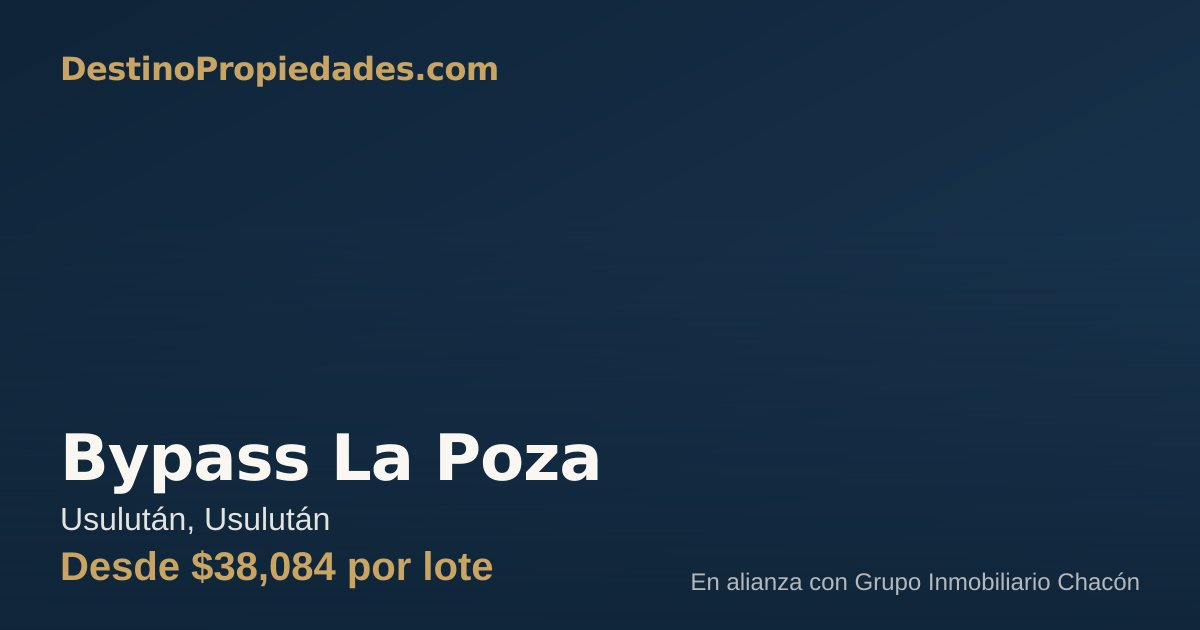
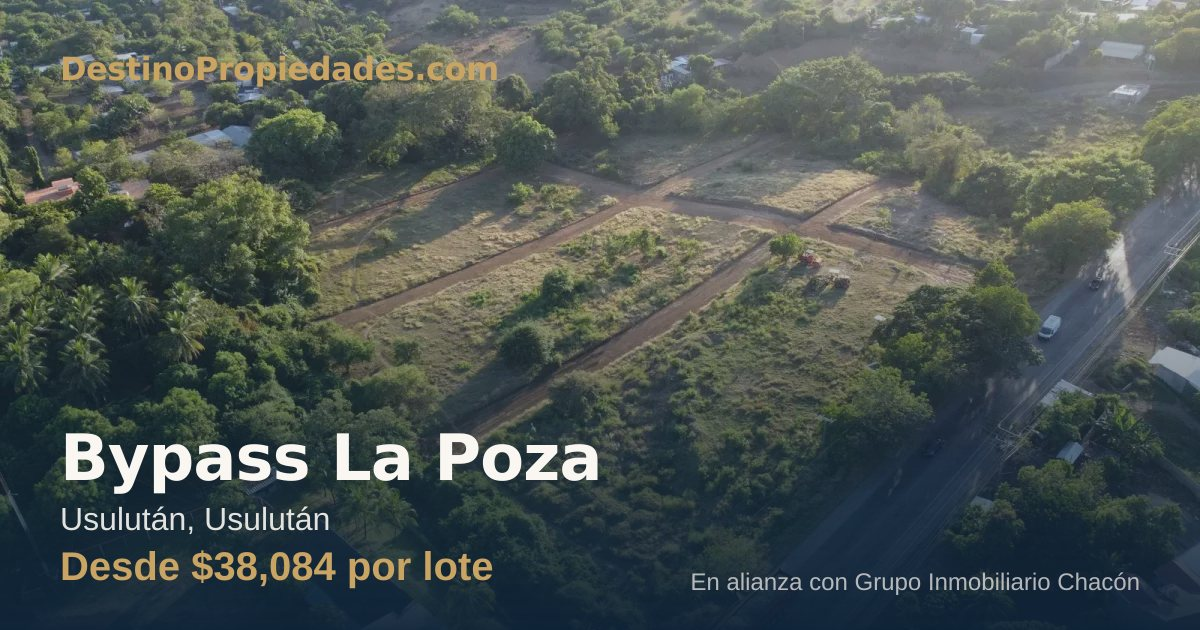
Fotos reales para Bypass La Poza (set de fotos completo)
Fotos de dron de Grupo Chacón, convertidas a WebP 1600px (orientación
EXIF), 6 en total. Se llena `galeria`: card, ficha (galería + lightbox)
y OG usan fotos reales. Verificado en desktop.

Con esto, los 11 proyectos del sitio ya tienen fotos reales: ningún
proyecto queda con el marcador "Fotos en camino".

diff --git a/src/data/proyectos.ts b/src/data/proyectos.ts
@@ -797,7 +797,14 @@ export const proyectos: Proyecto[] = [
       "áreas verdes y equipamiento social. Planes de pago directos con el " +
       "desarrollador (15% de interés anual).",
     // Fotos pendientes: el desarrollador las subirá por partes.
-    galeria: [],
+    galeria: [
+      "/assets/proyectos/bypass-la-poza/foto-1.webp",
+      "/assets/proyectos/bypass-la-poza/foto-2.webp",
+      "/assets/proyectos/bypass-la-poza/foto-3.webp",
+      "/assets/proyectos/bypass-la-poza/foto-4.webp",
+      "/assets/proyectos/bypass-la-poza/foto-5.webp",
+      "/assets/proyectos/bypass-la-poza/foto-6.webp",
+    ],
     precioDesde: 38084,
     etiquetaPrecio: "Desde $38,084 por lote",
     // Tipos representativos de la lista de precios (polígonos A, C-I; 110